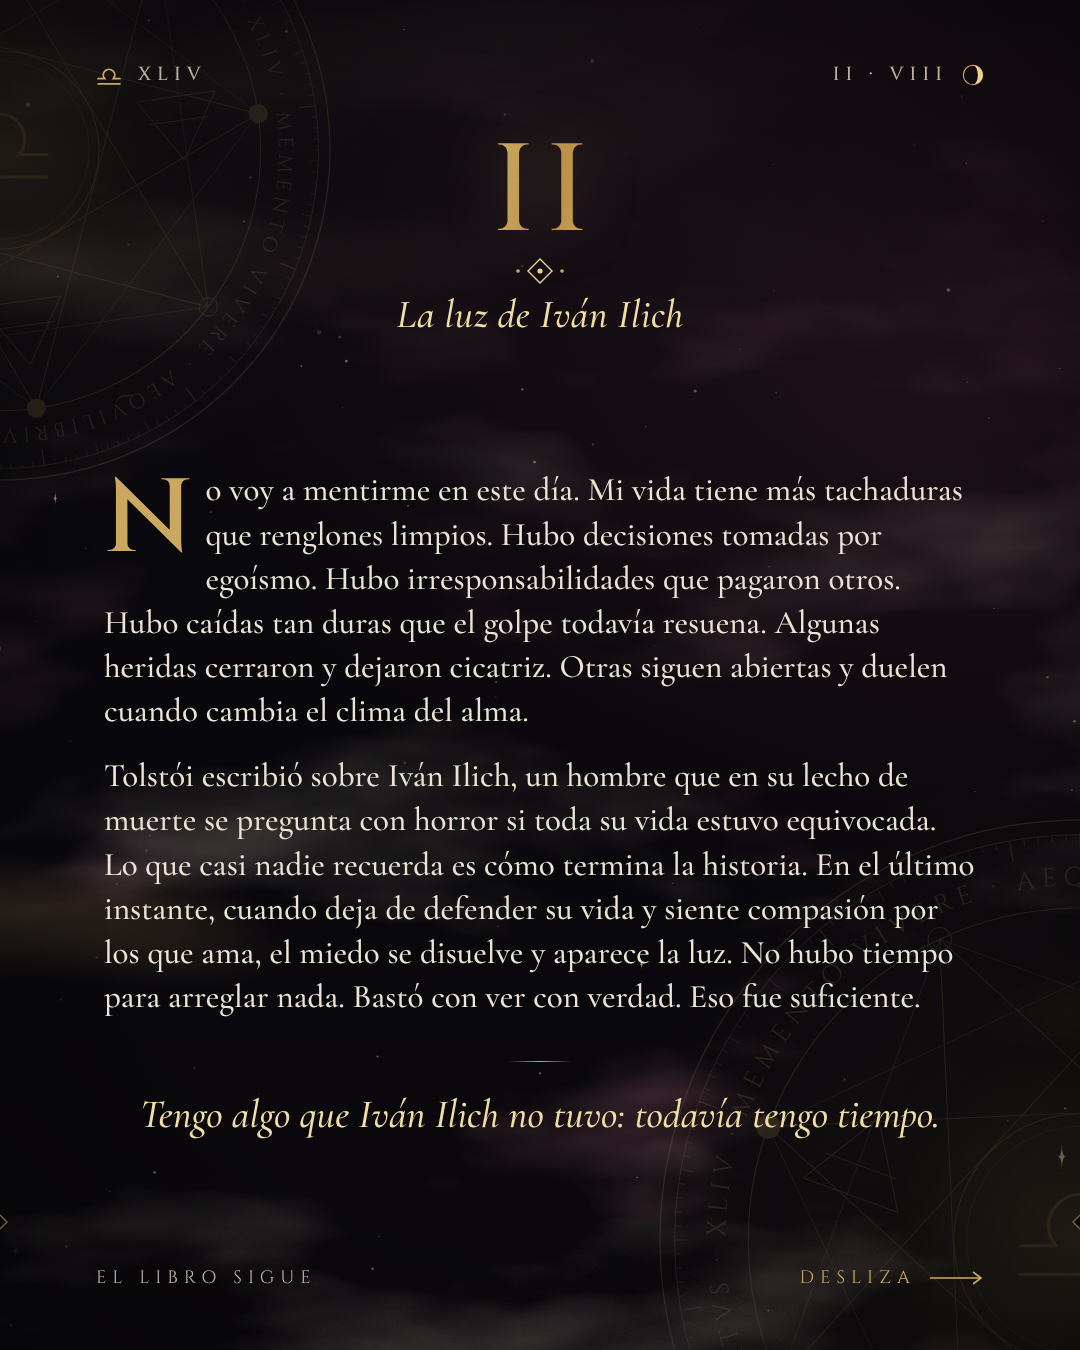
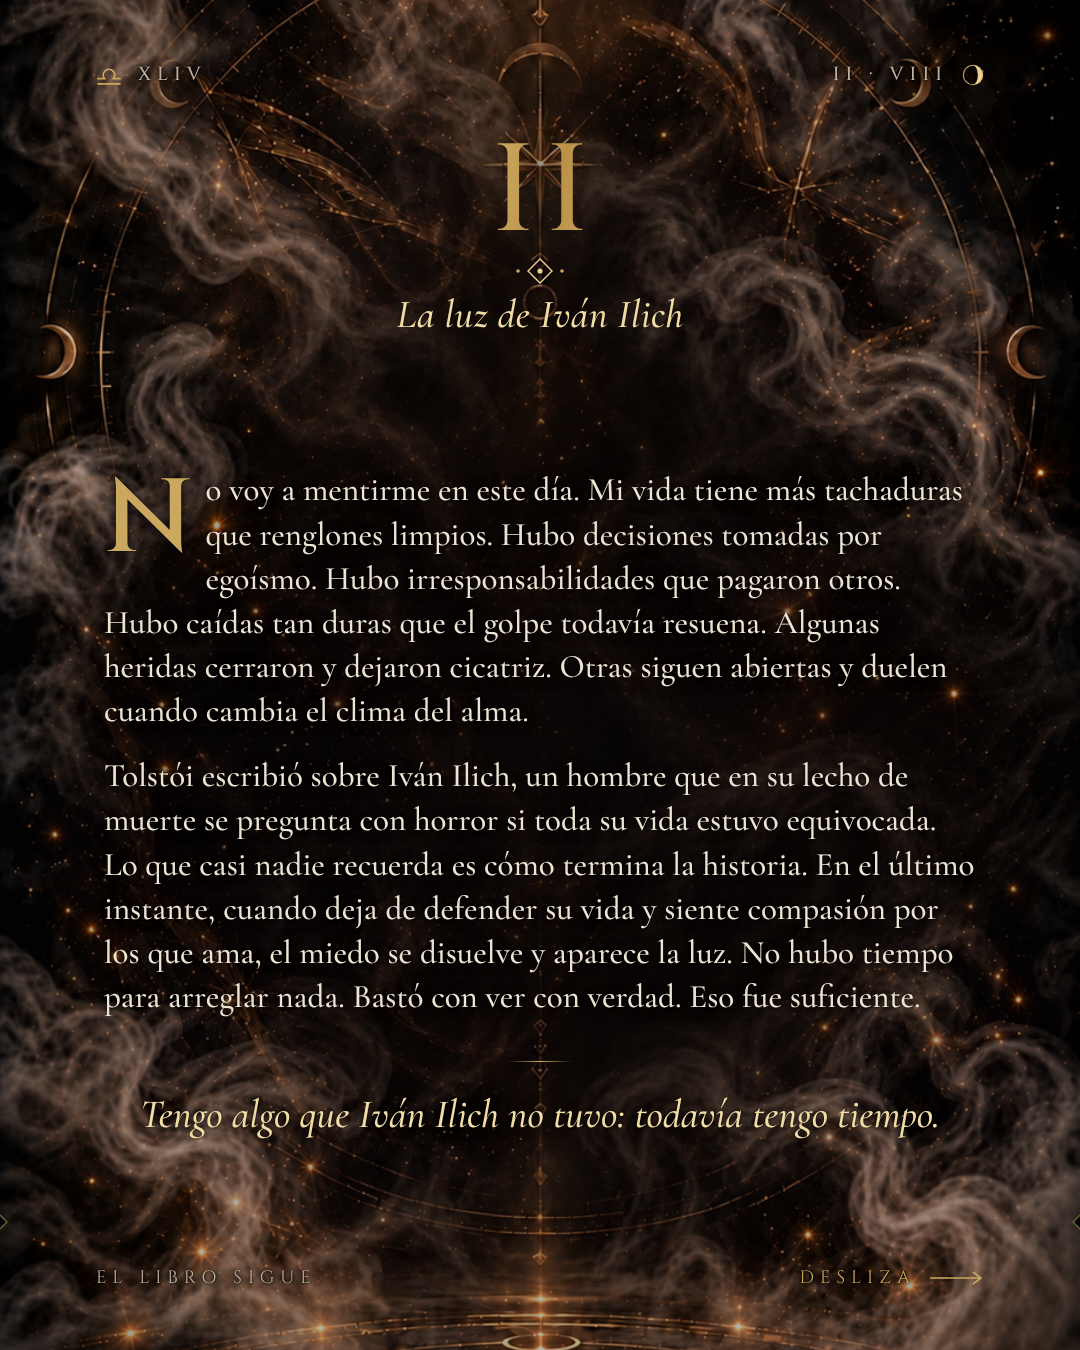
Usa el fondo proporcionado y la fecha de nacimiento en el carrusel
Cada lámina encuadra una zona distinta de fondo.png, con oscurecido
detrás del texto para mantener la lectura. La portada muestra
2 · X · MCMLXXXII.

Claude-Session: https://claude.ai/code/session_01FPgioZYAWZUcS7X3tXWS9f

diff --git a/carrusel-44/carrusel.html b/carrusel-44/carrusel.html
@@ -42,7 +42,10 @@
       linear-gradient(180deg, #0c0a10 0%, #07060a 55%, #0a080c 100%);
   }
   .layer { position: absolute; inset: 0; pointer-events: none; }
-  #smoke { mix-blend-mode: screen; opacity: 1; }
+  .bg {
+    position: absolute; top: 0; width: var(--W); height: var(--H);
+    background: url(fondo.png) no-repeat; background-size: var(--W) auto;
+  }
   #grain { mix-blend-mode: overlay; opacity: .16; }
 
   /* ---------- Lámina ---------- */
@@ -57,6 +60,21 @@
     position: absolute; inset: 0;
     background: radial-gradient(ellipse 78% 70% at 50% 52%, transparent 55%, rgba(0,0,0,.55) 100%);
   }
+  .part .vignette, .close .vignette {
+    background:
+      radial-gradient(ellipse 62% 44% at 50% 60%, rgba(6,4,6,.72) 0%, rgba(6,4,6,.5) 55%, transparent 100%),
+      radial-gradient(ellipse 40% 16% at 50% 17%, rgba(6,4,6,.55) 0%, transparent 100%),
+      radial-gradient(ellipse 78% 70% at 50% 52%, transparent 50%, rgba(0,0,0,.6) 100%);
+  }
+  .cover .vignette {
+    background:
+      radial-gradient(ellipse 60% 26% at 50% 72%, rgba(6,4,6,.7) 0%, transparent 100%),
+      radial-gradient(ellipse 78% 70% at 50% 52%, transparent 50%, rgba(0,0,0,.6) 100%);
+  }
+  .body, .close .wrap, .cover .big { text-shadow: 0 1px 14px rgba(0,0,0,.85), 0 0 3px rgba(0,0,0,.6); }
+  .cover .big h1 b, .close .pill .w { text-shadow: none; filter: drop-shadow(0 2px 10px rgba(0,0,0,.9)); }
+  .hdr, .ftr, .names, .sign { text-shadow: 0 0 12px #000, 0 0 4px #000, 0 0 2px #000; }
+  .cover .date { text-shadow: 0 0 10px #000, 0 0 4px #000; }
 
   .hdr {
     position: absolute; top: 62px; left: 96px; right: 96px;
@@ -124,7 +142,7 @@
 
   /* ---------- Portada ---------- */
   .cover .date {
-    position: absolute; top: 150px; left: 0; right: 0; text-align: center;
+    position: absolute; top: 722px; left: 0; right: 0; text-align: center;
     font-family: 'Cinzel', serif; font-size: 22px; letter-spacing: .5em; color: var(--gold-2);
   }
   .cover .sigil { position: absolute; left: 50%; top: 250px; transform: translateX(-50%); }
@@ -187,7 +205,7 @@
 </head>
 <body>
 <div id="pano">
-  <svg id="smoke" class="layer" xmlns="http://www.w3.org/2000/svg"></svg>
+  <div id="bgs" class="layer"></div>
   <svg id="deco" class="layer" xmlns="http://www.w3.org/2000/svg"></svg>
   <div id="slides"></div>
   <svg id="grain" class="layer" xmlns="http://www.w3.org/2000/svg"></svg>
@@ -361,6 +379,20 @@ function scales(g, cx, cy, s, color) {
 }
 
 /* ---------------- Capas de fondo ---------------- */
+// Fondo fotográfico: cada lámina muestra un encuadre distinto (arriba → abajo)
+// de la misma imagen 941×1672 escalada a 1080 px de ancho (1919 px de alto).
+const BG_Y = [0, -330, -250, -380, -200, -360, -280, -400, -300, -569];
+function buildBackgrounds() {
+  const host = document.getElementById('bgs');
+  BG_Y.forEach((y, i) => {
+    const d = document.createElement('div');
+    d.className = 'bg';
+    d.style.left = (i * W) + 'px';
+    d.style.backgroundPosition = `0 ${y}px`;
+    host.appendChild(d);
+  });
+}
+
 function buildSmoke() {
   const svg = document.getElementById('smoke');
   svg.setAttribute('width', W * N); svg.setAttribute('height', H);
@@ -410,37 +442,6 @@ function buildDeco() {
   el('stop', { offset: .97, 'stop-color': '#c9a45c', 'stop-opacity': .7 }, thread);
   el('stop', { offset: 1, 'stop-color': '#c9a45c', 'stop-opacity': 0 }, thread);
 
-  // polvo de estrellas
-  const stars = el('g', { fill: '#f1dca2' }, svg);
-  for (let i = 0; i < 900; i++) {
-    const x = rnd() * W * N, y = rnd() * H, r = rnd() < .93 ? rnd() * 1.1 + .3 : rnd() * 1.6 + 1.2;
-    el('circle', { cx: x, cy: y, r, opacity: (rnd() * .35 + .08).toFixed(2) }, stars);
-  }
-  // destellos de cuatro puntas
-  for (let i = 0; i < 46; i++) {
-    const x = rnd() * W * N, y = rnd() * H, s = rnd() * 9 + 5;
-    el('path', { d: `M${x} ${y - s} Q${x} ${y} ${x + s * .28} ${y} Q${x} ${y} ${x} ${y + s} Q${x} ${y} ${x - s * .28} ${y} Q${x} ${y} ${x} ${y - s}Z`,
-      fill: '#f1dca2', opacity: (rnd() * .5 + .35).toFixed(2) }, svg);
-  }
-
-  // Sigilos que cruzan las costuras entre láminas: invitan a deslizar
-  const seams = [
-    [1 * W, 1180, 470, 12],
-    [2 * W, 150, 330, -8],
-    [3 * W, 1240, 420, 20],
-    [4 * W, 120, 380, 4],
-    [5 * W, 1200, 450, -14],
-    [6 * W, 170, 340, 30],
-    [7 * W, 1230, 430, 0],
-    [8 * W, 140, 360, -22],
-    [9 * W, 1190, 470, 16],
-  ];
-  const txt = 'MEMENTO VIVERE · AEQVILIBRIVM · LIBER APERTVS · XLIV · ';
-  seams.forEach(([x, y, r, rot], i) => {
-    el('circle', { cx: x, cy: y, r: r * 1.15, fill: 'url(#glow)', opacity: .5 }, svg);
-    sigil(svg, x, y, r, { rot, opacity: .15, sw: 1.3, text: txt.repeat(2), center: true });
-  });
-
   // Hilo dorado continuo — el fiel de la balanza a lo largo de todo el carrusel
   const ty = H - 128;
   el('line', { x1: 0, y1: ty, x2: W * N, y2: ty, stroke: 'url(#thr)', 'stroke-width': 1 }, svg);
@@ -462,7 +463,7 @@ function buildSlides() {
   cover.innerHTML = `
     <div class="vignette"></div>
     <div class="hdr"><div class="l">${libraSvg(26)}<span>XLIV</span></div><div class="r"><span>LIBRA</span>${moonSvg(22, 0)}</div></div>
-    <div class="date">2 · X · MMXXVI</div>
+    <div class="date">2 · X · MCMLXXXII</div>
     <svg class="sigil" width="520" height="520" viewBox="0 0 520 520" id="coverSigil"></svg>
     <div class="big">
       <h1>El libro sigue <b>abierto</b></h1>
@@ -478,8 +479,7 @@ function buildSlides() {
   el('stop', { offset: 0, 'stop-color': '#e9c77d', 'stop-opacity': .35 }, rg);
   el('stop', { offset: .5, 'stop-color': '#c9a45c', 'stop-opacity': .06 }, rg);
   el('stop', { offset: 1, 'stop-color': '#c9a45c', 'stop-opacity': 0 }, rg);
-  sigil(cs, 260, 260, 245, { rot: 0, opacity: .85, sw: 1.4, text: 'MEMENTO VIVERE · AEQVILIBRIVM · LIBER APERTVS · XLIV · '.repeat(2), center: false });
-  scales(cs, 260, 272, 150, '#f1dca2');
+  scales(cs, 260, 285, 250, '#f1dca2');
 
   // 1..8 · Partes
   parts.forEach((pt, i) => {
@@ -550,7 +550,7 @@ function fitBodies() {
   });
 }
 
-buildSmoke();
+buildBackgrounds();
 buildDeco();
 buildGrain();
 buildSlides();

diff --git a/carrusel-44/LEEME.md b/carrusel-44/LEEME.md
@@ -1,6 +1,6 @@
 # Carrusel XLIV — «El libro sigue abierto»
 
-10 láminas 1080×1350 (4:5, formato vertical de Instagram) en `laminas/`, en orden de publicación:
+10 láminas 1080×1350 sobre el fondo `fondo.png` (4:5, formato vertical de Instagram) en `laminas/`, en orden de publicación:
 
 | # | Archivo | Contenido |
 |---|---------|-----------|
@@ -8,8 +8,9 @@
 | 2–9 | `01-I.png` … `08-VIII.png` | Una parte del texto por lámina |
 | 10 | `09-cierre.png` | Llamado a interactuar: ARRANCO / CONSERVO |
 
-El fondo (humo, sigilos e hilo dorado) es un solo lienzo continuo: los círculos rituales
-quedan partidos entre lámina y lámina para que al deslizar se vea la continuación.
+Cada lámina muestra un encuadre distinto del mismo fondo: la portada abre arriba, con la luz
+y el círculo ritual, y el cierre baja hasta el círculo del suelo. Un hilo dorado continuo
+une las láminas al deslizar. En la portada va la fecha de nacimiento: 2 · X · MCMLXXXII.
 `panorama.jpg` muestra el recorrido completo.
 
 Para regenerar tras editar `carrusel.html`: `node render.mjs` (Playwright + Chromium).
